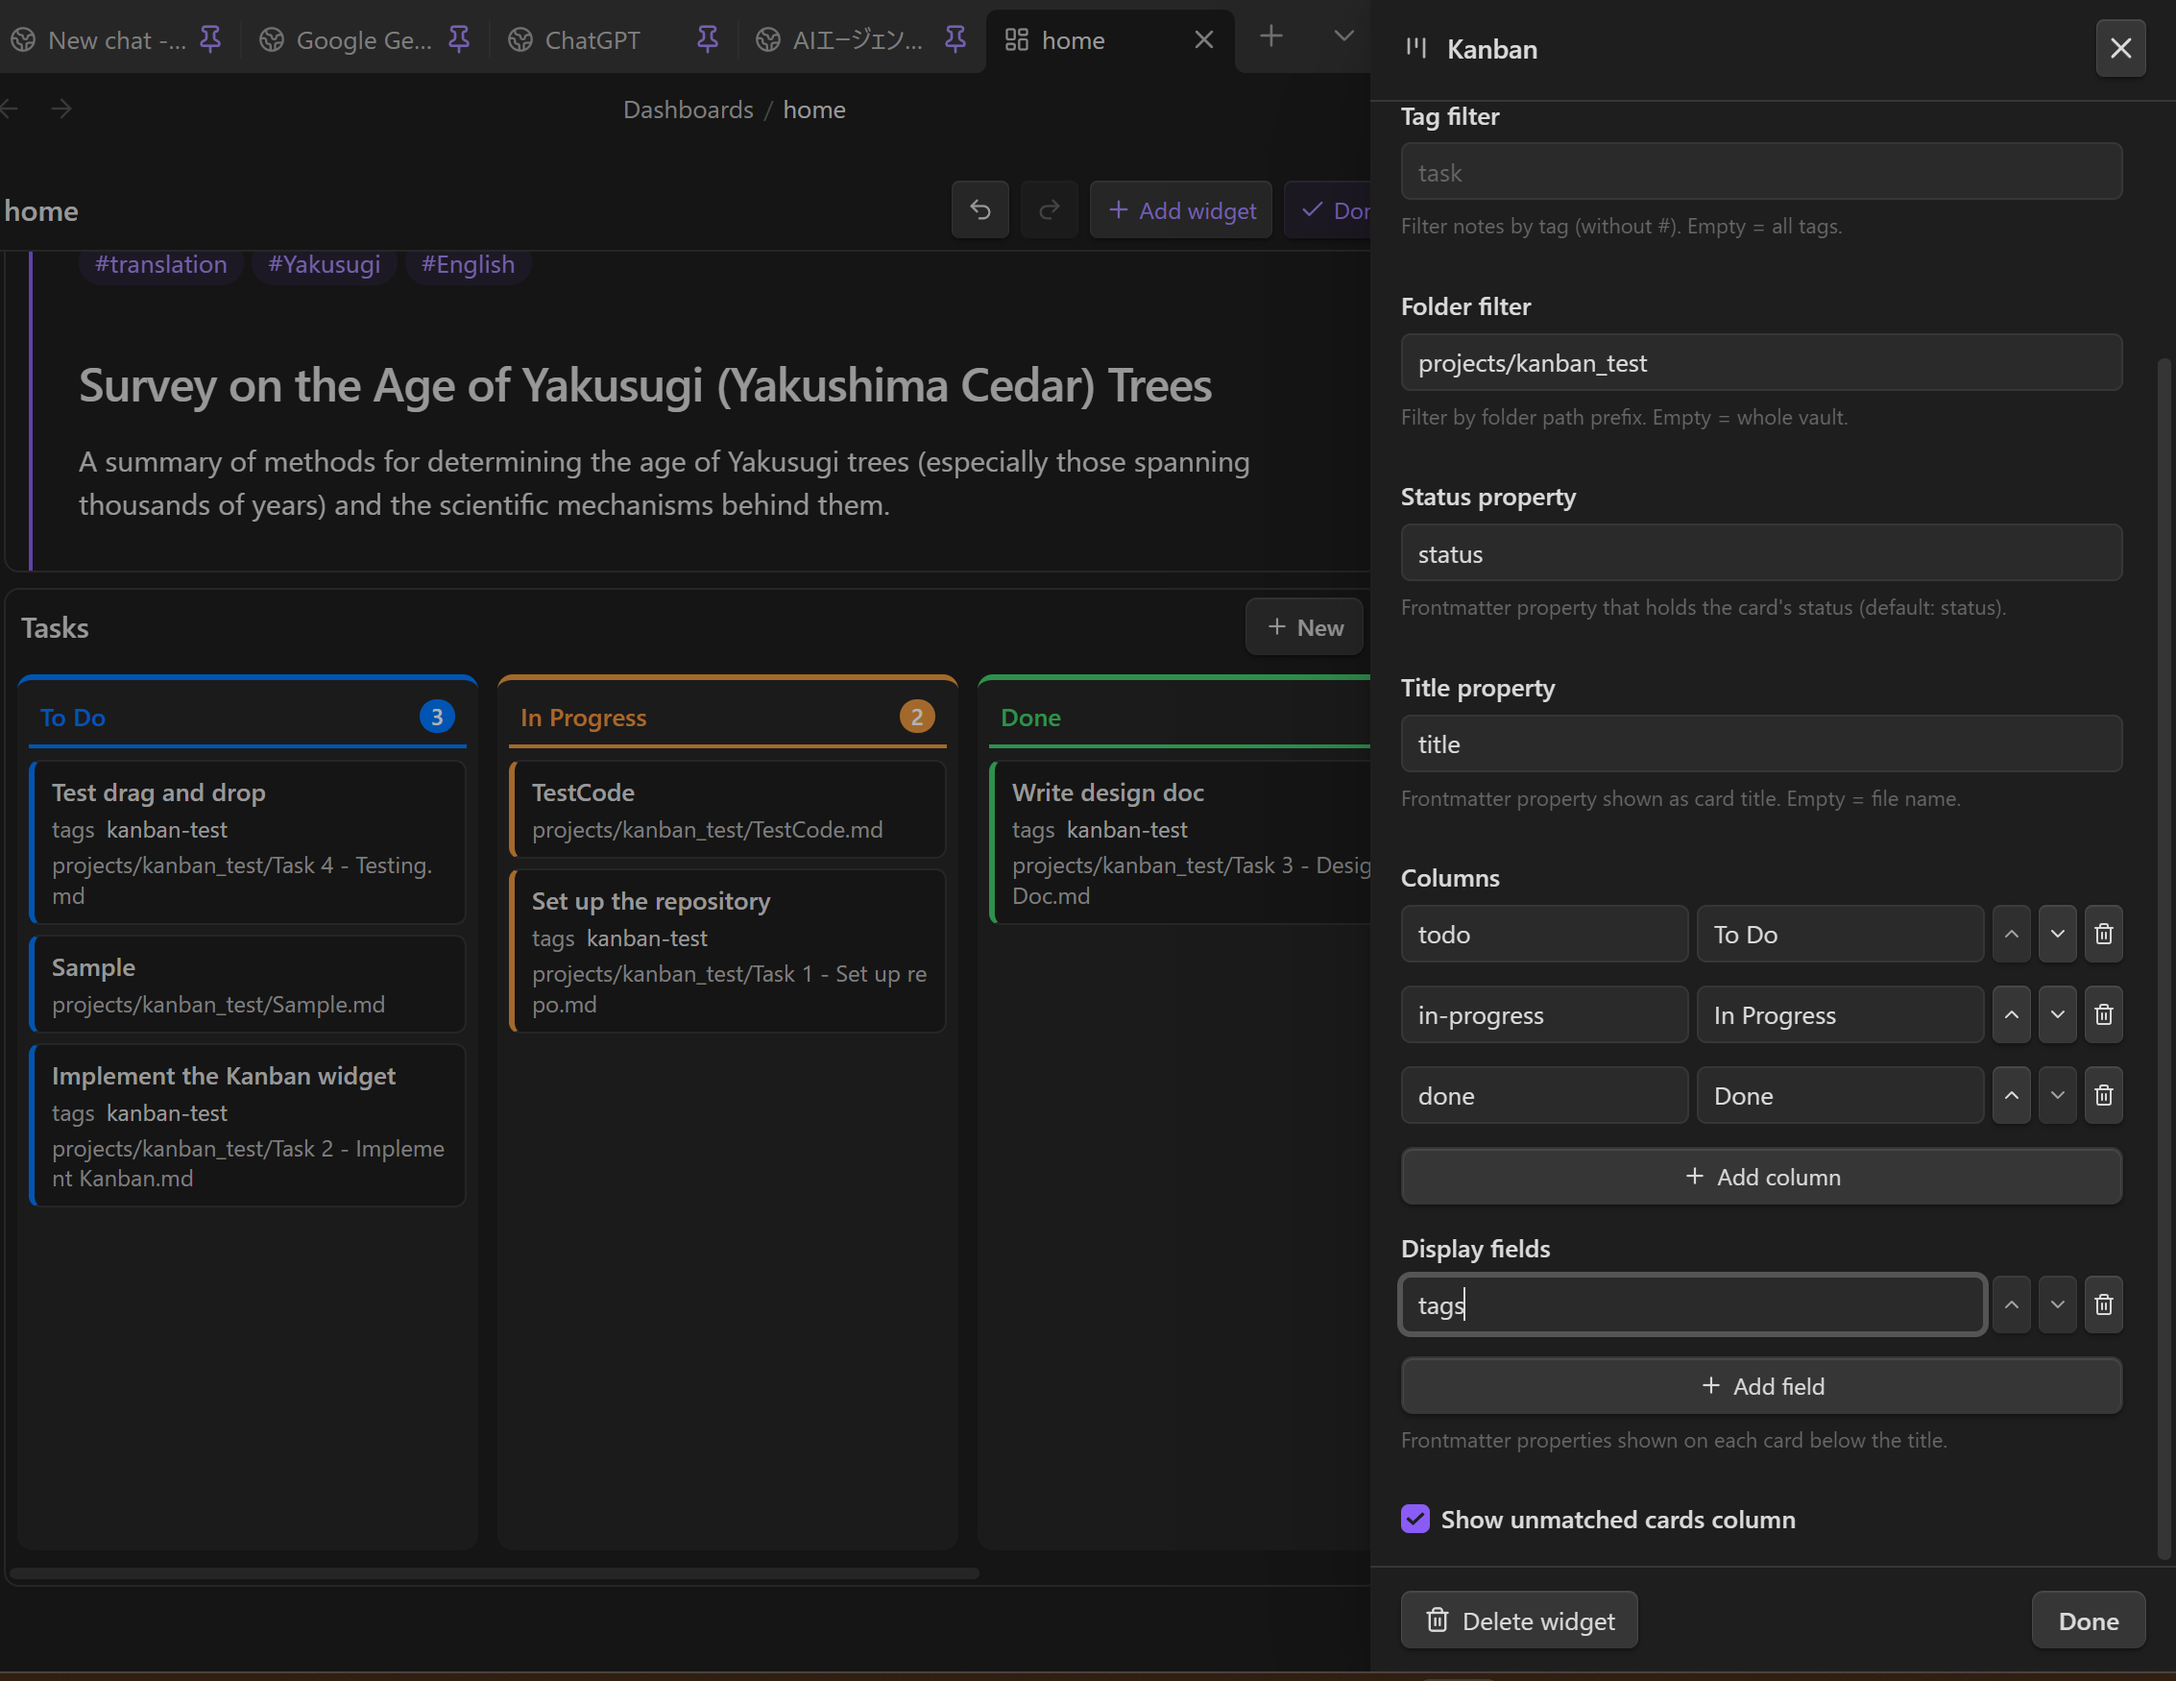
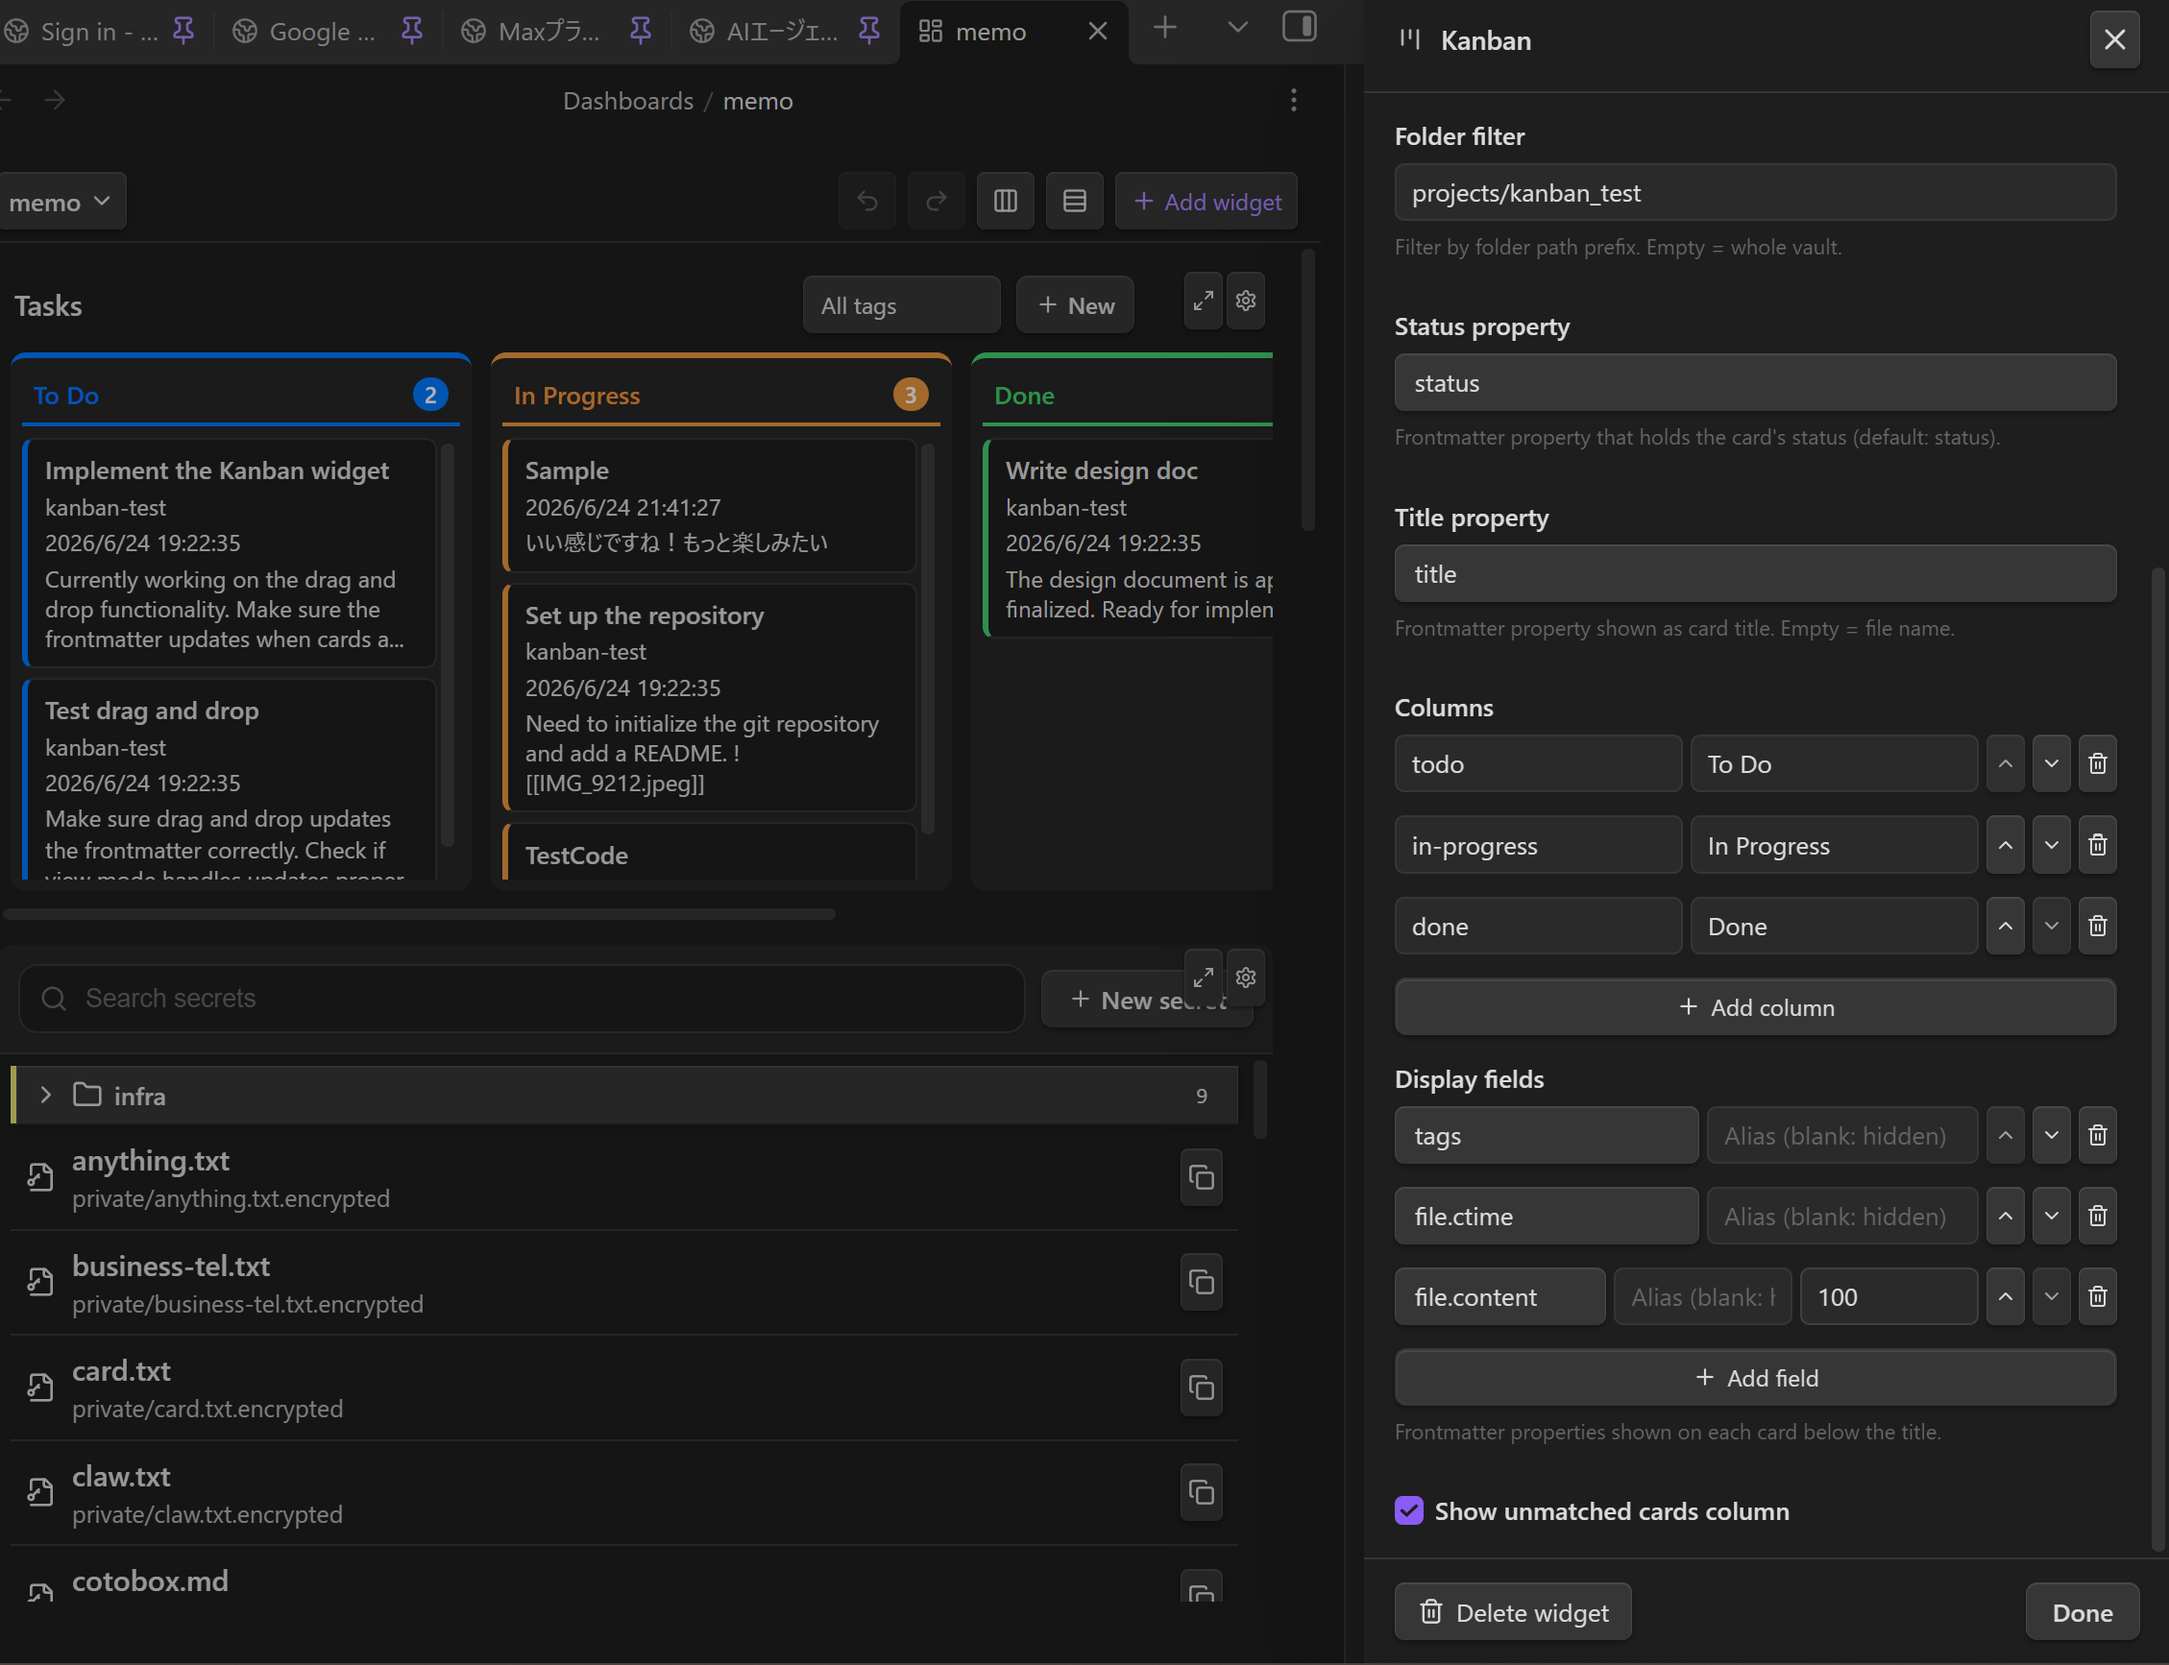
docs: document kanban file migration and secret manager widget details
- describe automatic migration of inline kanban settings to reusable
  .kanban files instead of the removed manual "create file" button
- add Secret Manager section with screenshots, feature bullets, and a
  warning about unencrypted searchable metadata (English + Japanese)
- update dashboard_kanban_edit.png to match the current settings UI

Ported from obsidian-gemini-helper commit bc2d17b. Other locale READMEs
(de/es/fr/it/ko/pt/zh-TW/zh) already lacked the Secret Manager section
prior to this change and are left as a pre-existing translation gap.

diff --git a/README_ja.md b/README_ja.md
@@ -501,7 +501,7 @@ Obsidian のイベントでワークフローを自動実行：
 
 ![カンバンボード](docs/images/dashboard_kanban.png)
 
-ボード設定は `Dashboards/Kanbans/` 配下の再利用可能な `.kanban` ファイルとして保存できます。ウィジェット設定の **現在の設定から .kanban ファイルを作成** を使うと、同じボードを複数のダッシュボードから参照できます。ヘッダーの一時タグ絞り込みに加え、表示項目は検出された frontmatter プロパティから選択でき、別名や項目名の非表示を指定できます。`file.path` / `file.name` / `file.content` / `file.mtime` / `file.ctime` は明示的に選択した場合だけ表示され、最大文字数は `file.content` に指定できます。
+ボード定義は `Dashboards/Kanbans/` 配下の再利用可能な `.kanban` YAML ファイルとして保存されます。既存のインライン定義は自動的にそこへ移行されます。複数のダッシュボードから同じファイルを参照でき、1つのウィジェット設定で行った変更は共有ファイルに反映されます。ヘッダーの一時タグ絞り込みに加え、表示項目は検出された frontmatter プロパティから選択でき、別名や項目名の非表示を指定できます。`file.path` / `file.name` / `file.content` / `file.mtime` / `file.ctime` は明示的に選択した場合だけ表示され、最大文字数は `file.content` に指定できます。
 
 - **タイトルと新規** — ヘッダーには任意のボードタイトル（1つのダッシュボードに複数のボードを置くときに便利）と **新規** ボタンが表示されます。新規ボタンはタイトル入力と列選択のダイアログを開き、ボードのフィルター（フォルダ・タグ・ステータス）に既に一致するノートを作成します。
 - **プレビューと遷移** — カードをクリックするとダイアログでノートをプレビューでき、ダイアログの遷移アイコンで新しいタブにノートを開きます。
@@ -514,7 +514,20 @@ Obsidian のイベントでワークフローを自動実行：
 
 ## Secret Manager
 
-Secret Manager ウィジェットは、プラグインの既存の暗号化鍵を使い、各値を Vault 内の `.encrypted` ファイルとして保存します。名前・説明・明示的に公開したメタデータは検索できますが、秘密値はコピー時にだけ復号され、平文では保存されません。先にプラグイン設定で暗号化を設定してください。
+Secret Manager ウィジェットは、プラグインの既存の暗号化鍵を使い、各値を個別の `.encrypted` Vault ファイルとして保存します。先に **設定 → 暗号化** で暗号化パスワードを設定してください。チャット履歴とワークフローログの暗号化トグルを有効にする必要はありません。
+
+![Secret Manager](docs/images/secret_manager.png)
+
+- **作成と整理** — 任意のルートフォルダ（既定は `Secrets`）を指定でき、ウィジェット内では入れ子のフォルダ構造が維持されます。
+- **検索** — シークレット値を復号せずに、ファイル名・説明・カスタム公開メタデータで絞り込めます。
+- **ロック解除とコピー** — 暗号化パスワードを入力すると、値の表示・編集・コピーができます。パスワードは現在のセッション中キャッシュされます。
+- **シークレットの編集** — 詳細モーダルから値・説明・公開メタデータを更新できます。ファイルは暗号化されたまま保存されます。
+- **保存時の暗号化** — 平文値はロック解除中にメモリ上でのみ使用され、暗号化されていない状態で Vault に保存されることはありません。
+
+![Secret Manager 編集](docs/images/secret_manager_edit.png)
+
+> [!WARNING]
+> シークレット名、説明、カスタム公開メタデータ、Vault パスは、一覧表示と検索を可能にするため暗号文の外側に保存されます。これらの項目にパスワード、トークン、その他の機密値を入力しないでください。機密データはシークレット値にだけ入力してください。
 
 > [!NOTE]
 > **ワークフローウィジェットはライブ実行ではなくキャッシュから読み込みます。** ワークフローウィジェットが実行されるのは、**実行**ボタン、設定エディタのテスト実行、または**自動更新間隔**（分。`0` は手動のみ）より古いキャッシュ結果がある状態で開いたときの一度だけです。結果はダッシュボードの隣の隠しサイドカーファイルに保存されるため、再オープンしても出力が残ります。ワークフローは Markdown/HTML 出力を変数（既定 `result`）に格納する必要があります。

diff --git a/README.md b/README.md
@@ -496,7 +496,7 @@ Turn notes into a drag-and-drop board. Cards are notes that match a **tag** and/
 
 ![Kanban board](docs/images/dashboard_kanban.png)
 
-Boards can be stored as reusable `.kanban` files under `Dashboards/Kanbans/`. Use **Create .kanban file from these settings** in the widget settings, then reference the same file from multiple dashboards. The board header also provides a temporary tag filter. Optional display fields are selected from detected frontmatter properties, support aliases or hidden labels, and expose `file.path`/`file.name`/`file.content`/`file.mtime`/`file.ctime` only when explicitly selected. A character limit can be set for `file.content`.
+Boards are stored as reusable `.kanban` files under `Dashboards/Kanbans/`. Existing inline widget definitions are migrated there automatically. Multiple dashboards can reference the same file, and changes made in one widget's settings update the shared file. The board header also provides a temporary tag filter. Optional display fields are selected from detected frontmatter properties, support aliases or hidden labels, and expose `file.path`/`file.name`/`file.content`/`file.mtime`/`file.ctime` only when explicitly selected. A character limit can be set for `file.content`.
 
 - **Title & New** — the header shows an optional board title (handy when one dashboard holds several boards) and a **New** button that opens a modal to enter a title and pick a column, then creates a note already matching the board's filters (folder, tag, status).
 - **Preview & open** — click a card to preview its note in a modal; the modal's open icon jumps to the note in a new tab.
@@ -509,7 +509,20 @@ Configure everything from the widget settings in edit mode:
 
 ## Secret Manager
 
-The Secret Manager widget stores each value as an `.encrypted` vault file using the plugin's existing encryption keys. Names, descriptions, and explicitly public metadata remain searchable; secret values are decrypted only when copied and are never persisted as plaintext. Configure encryption in plugin settings first.
+The Secret Manager widget stores each value as a separate `.encrypted` vault file using the plugin's existing encryption keys. Set up an encryption password in **Settings → Encryption** first; the chat-history and workflow-log encryption toggles do not need to be enabled.
+
+![Secret Manager](docs/images/secret_manager.png)
+
+- **Create and organize** — choose an optional root folder (the default is `Secrets`); nested folders are preserved in the widget.
+- **Search** — filter by file name, description, or custom public metadata without decrypting secret values.
+- **Unlock and copy** — enter the encryption password to view, edit, or copy a value. The password is cached for the current session.
+- **Edit secrets** — update the secret value, description, and public metadata from the detail modal; the file remains encrypted.
+- **Encrypted at rest** — plaintext values are used only in memory while unlocked and are never saved back to the vault unencrypted.
+
+![Secret Manager edit](docs/images/secret_manager_edit.png)
+
+> [!WARNING]
+> Secret names, descriptions, custom public metadata, and vault paths are stored outside the ciphertext so they can be listed and searched. Do not put passwords, tokens, or other sensitive values in those fields. Put sensitive data only in the secret value.
 
 > [!NOTE]
 > **Workflow widgets read from a cache, not live.** A workflow widget runs only on the **Run** button, the config editor's test-run, or once on open when its cached result is older than the **Auto-refresh interval** (minutes; `0` = manual only). Results are stored in a hidden sidecar file next to the dashboard, so output survives reopening. The workflow must store its Markdown/HTML output in a variable (default `result`).
